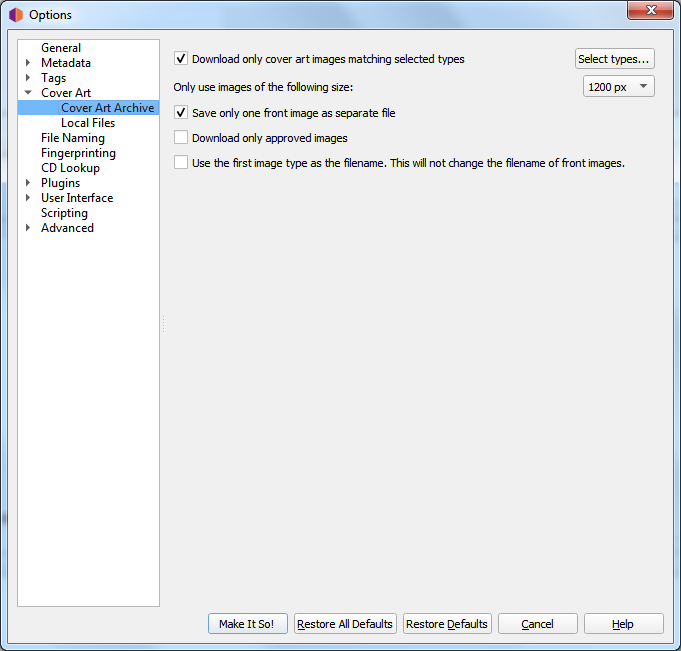
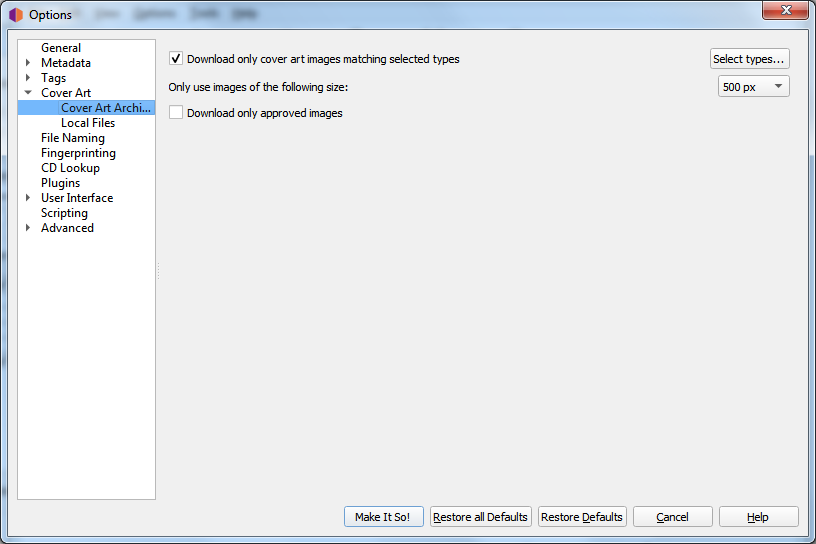
Match refactored option screens
Match screens as revised in
https://github.com/metabrainz/picard/pull/1757

Changed region(s): [[0.0, 0.0, 1.0, 1.0], [0.185, 0.4688, 0.2159, 0.5312]]

diff --git a/config/options_cover_art_archive.rst b/config/options_cover_art_archive.rst
@@ -9,7 +9,7 @@
 In this section you can decide which types of cover art you would like to download from the Cover Art Archive,
 and what quality (size) you want to download. Obviously, the better the quality, the larger the size of the files.
 
-**Download Types**
+**Download only cover art images matching the selected types**
 
    When selecting the cover art image types, you can select the types to both include and exclude from the download list.
    CAA images with an image type found in the "Include" list will be downloaded and used unless they also have an image type
@@ -19,37 +19,19 @@ and what quality (size) you want to download. Obviously, the better the quality,
 
    Most music players will display only one piece of cover art for the album, and most people select Front (cover) for that.
 
-**Image Size**
+**Only use images of the following size**
 
    This identifies what size of image to download from the CAA.  The options are 250px, 500px, 1200px amd full size.  The
    fixed sizes are generated automatically from the full size image, provided that it is greater than or equal to the fixed
    size being generated.  The generated images are square and padded as required if the original image is not square.
-
-**Save only one front image**
-
-   This tells Picard to only save the first "front" image to a separate file with the release.  If left unchecked, all "front"
-   images will be saved as separate files.
 
 **Download only approved images**
 
    When checked, Picard will only download images that have been approved (i.e.: the edit to add the image has been accepted
    and applied).  To allow using images from pending edits, leave this option unchecked.
 
-**Use the first image type as the filename**
+.. note::
 
-   This setting changes how Picard names image files **other than front images**.
-
-   When checked, Picard will use the type of the image (e.g.: back, booklet, etc.) as the filename when saving, as long as
-   the type is not front. If the image has been assigned multiple types, then the first type will be used. For example,
-   if the image is of types "back" and "raw", then "back" will be used for the filename. If unchecked or if the image is
-   of type "front", Picard will use the file name specified in the "Use the following file name for images" setting in the
-   :doc:`options_location` section of the :doc:`options_cover` settings.
-
-   .. note::
-
-      This will **not** change the name used for "front" images that has been specified in the :ref:`Save cover images
-      <ref-local-images>` section of the general :menuselection:`"Cover Art Options"`.
-
-Since Picard 1.3, you can also decide whether or not to use the image from the release group (if any) if no front image is
-found for the release. In this case, the cover may not match the exact release you are tagging (eg.: a 1979 vinyl front cover
-may be used in place of the Deluxe 2010 CD reissue).
+   Since Picard 1.3, you can also decide whether or not to use the image from the release group (if any) if no front image is
+   found for the release. In this case, the cover may not match the exact release you are tagging (eg.: a 1979 vinyl front cover
+   may be used in place of the Deluxe 2010 CD reissue).

diff --git a/config/options_location.rst b/config/options_location.rst
@@ -39,3 +39,17 @@
 
    Check this to replace existing files. This is especially recommended if trying to write "folder" previews
    for Windows.
+
+**Save only a single front image as separate file**
+
+   This tells Picard to only save the first "front" image to a separate file with the release.  If left unchecked, all "front"
+   images will be saved as separate files.
+
+**Always use the primary image type as the file name for non-front images**
+
+   This setting changes how Picard names image files **other than front images**.
+
+   When checked, Picard will use the type of the image (e.g.: back, booklet, etc.) as the filename when saving, as long as
+   the type is not front. If the image has been assigned multiple types, then the first type will be used. For example,
+   if the image is of types "back" and "raw", then "back" will be used for the filename. If unchecked or if the image is
+   of type "front", Picard will use the file name specified in the "Use the following file name for images" setting.
